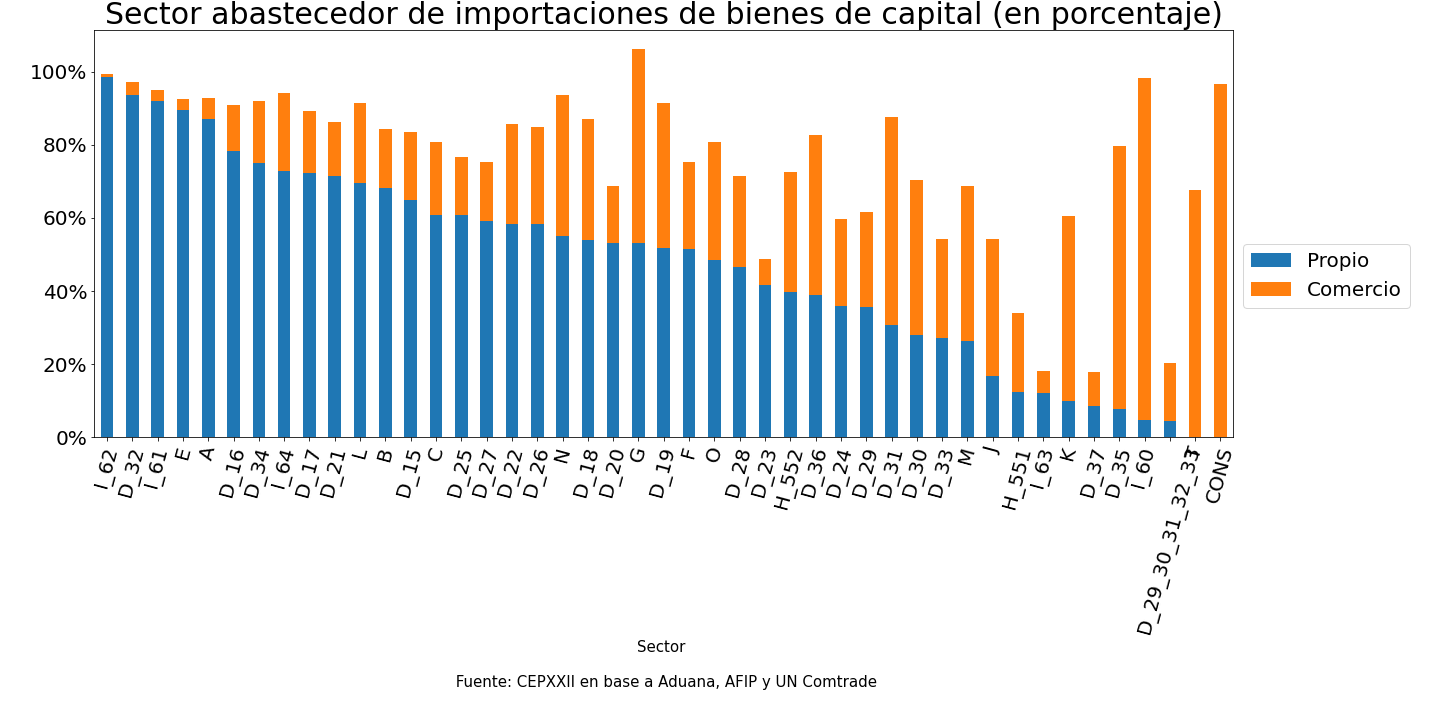
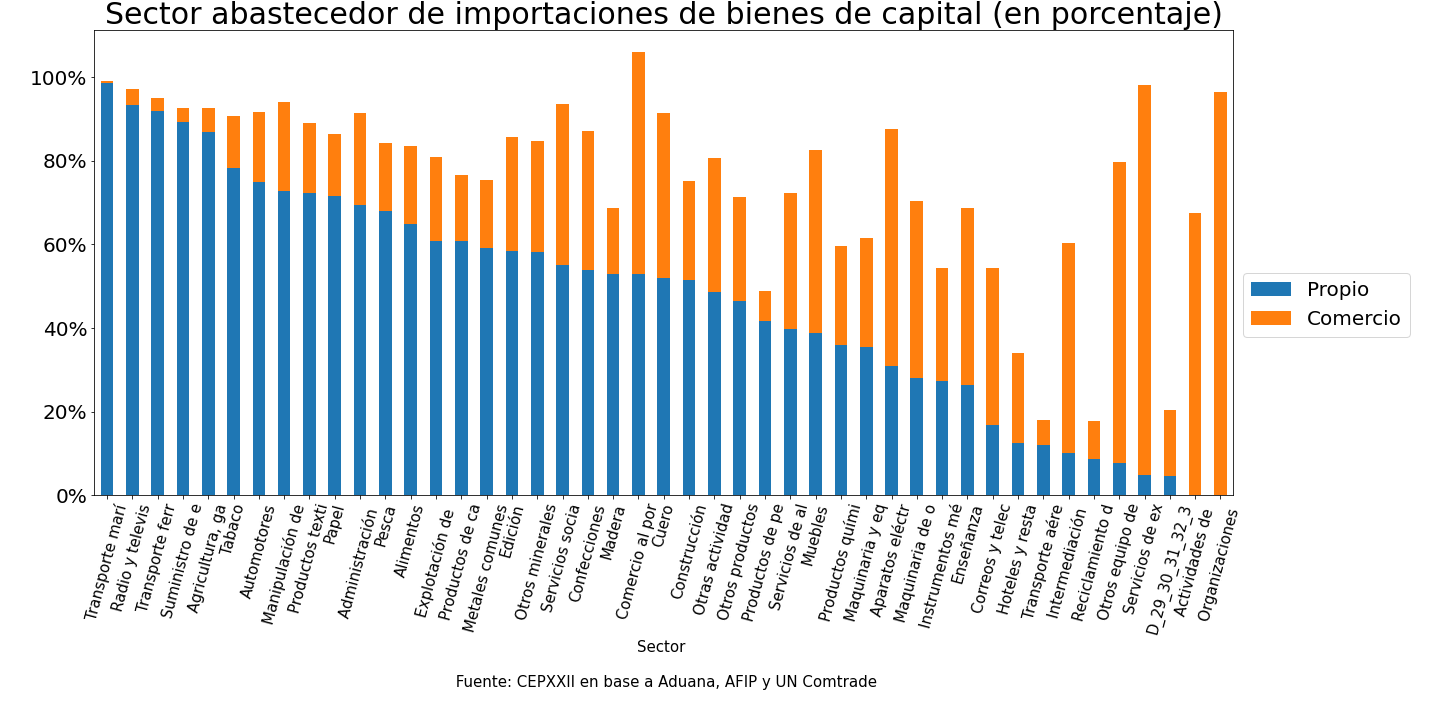
incompatibilidad de numero de ejes de diccionario y plot

diff --git a/scripts/nivel_ncm_12d_6act/pre_visualizacion_nivel_ncm_12d_6act.py b/scripts/nivel_ncm_12d_6act/pre_visualizacion_nivel_ncm_12d_6act.py
@@ -19,11 +19,41 @@ def sectores():
                      "U": "Serv. organizaciones" , "CONS": "Consumo" }
     return sectores_desc
 
+def dic_graf(matriz_sisd, dic_ciiu):
+    letras_ciiu = pd.DataFrame(matriz_sisd.index)
+    # armo nuevo diccionario
+    letras_ciiu_pd =  dic_ciiu[["ciiu3_letra", "ciiu3_letra_desc"]].drop_duplicates(subset = "ciiu3_letra")[~dic_ciiu["ciiu3_letra"].isin(["D", "I"]) ].dropna().rename(columns = {"ciiu3_letra" : "letra", "ciiu3_letra_desc":"desc" } )
+    
+    digitos = tuple(list(map(str, range(15, 38))) + list(map(str, range(60, 65))) )
+    ciiu_desc_2= dic_ciiu[dic_ciiu["ciiu3_2c"].astype(str).str.startswith(digitos )][[ "ciiu3_letra", "ciiu3_2c", "ciiu3_2c_desc" ]].drop_duplicates()
+    ciiu_desc_2["ciiu3_2c"] =  ciiu_desc_2["ciiu3_letra"] + "_"+ ciiu_desc_2["ciiu3_2c"].astype(str).str.slice(0,2) 
+    ciiu_desc_2 = ciiu_desc_2.rename(columns = {"ciiu3_2c" : "letra", "ciiu3_2c_desc":"desc" } )[["letra", "desc"]]
+    
+    ciiu_desc_3= dic_ciiu[dic_ciiu["ciiu3_3c"].astype(str).str.startswith( ("551", "552"), na = False)][[ "ciiu3_letra", "ciiu3_3c", "ciiu3_3c_desc"  ]].drop_duplicates()
+    ciiu_desc_3["ciiu3_3c"] =  ciiu_desc_3["ciiu3_letra"] + "_"+ ciiu_desc_3["ciiu3_3c"].astype(str).str.slice(0,3) 
+    ciiu_desc_3 = ciiu_desc_3.rename(columns = {"ciiu3_3c" : "letra", "ciiu3_3c_desc":"desc" } )[["letra", "desc"]]
+    
+    sector_a_definir = pd.DataFrame({"letra": ["D_29_30_31_32_33"], "desc":[ "D_29_30_31_32_33"]})
+    
+    letras_ciiu = pd.concat([letras_ciiu_pd, ciiu_desc_2, ciiu_desc_3, sector_a_definir ], axis = 0).sort_values("letra")
+    letras_ciiu = pd.concat([letras_ciiu ,pd.DataFrame({"letra": ["CONS"], "desc":[ "Consumo"]})], axis = 0 )
+    
+    return letras_ciiu
 
-def impo_total(z, sectores_desc =False):
-    indice = z.index
+def impo_total(matriz_sisd, letras_ciiu, sectores_desc =False):
+    # if sectores_desc == True:
+    #     indice = z.index
+    #     letra =  indice.values
+    # else:
+    #     indice = letras_ciiu.desc.values
+    #     letra = letras_ciiu.letra.values
+    
+    indice = letras_ciiu.desc.values
+    letra = letras_ciiu.letra.values
+
+    
     # transformacion a array de np
-    z_visual = z.to_numpy()
+    z_visual = matriz_sisd.to_numpy()
     
     #diagonal y totales col y row
     col_sum  = np.nansum(z_visual , axis=0)
@@ -34,14 +64,16 @@ def impo_total(z, sectores_desc =False):
 
     #importaciones totales (ordenadas)
     # impo_tot_sec = pd.DataFrame({"impo_tot": col_sum, "letra":sectores_desc.keys() }, index=sectores_desc.values())  
-    impo_tot_sec = pd.DataFrame({"impo_tot": col_sum, "letra":indice.values}, index=indice)  
+    impo_tot_sec = pd.DataFrame({"impo_tot": col_sum, "letra":letra}, index=indice)  
     # impo_tot_sec = pd.DataFrame({"impo_tot": col_sum } )  
     # impo_tot_sec.sort_values(by = "impo_tot", ascending= False, inplace = True)
     
     return impo_tot_sec
 
-def impo_comercio_y_propio(z, sectores_desc = False):
-    indice = z.index
+def impo_comercio_y_propio(z,letras_ciiu, sectores_desc = False):
+    # indice = z.index
+    indice = letras_ciiu.desc.values
+    # letra = letras_ciiu.letra.values
     
     # transformacion a array de np
     z_visual = z.to_numpy()
@@ -56,13 +88,13 @@ def impo_comercio_y_propio(z, sectores_desc = False):
     comercio_y_propio = pd.DataFrame({"Propio": diag_total_col*100 , 'Comercio': g_total_col*100} , index = indice )
     return comercio_y_propio.sort_values(by = 'Propio', ascending = False) 
     
-def graficos(matriz_sisd, impo_tot_sec, comercio_y_propio):
+def graficos(matriz_sisd, impo_tot_sec, comercio_y_propio, letras_ciiu):
     #parametro para graficos
     params = {'legend.fontsize': 20,
               'figure.figsize': (20, 10),
              'axes.labelsize': 15,
              'axes.titlesize': 30,
-              'xtick.labelsize':20,
+              'xtick.labelsize':15,
               'ytick.labelsize':20
              }
     plt.rcParams.update(params)
@@ -70,11 +102,12 @@ def graficos(matriz_sisd, impo_tot_sec, comercio_y_propio):
     
     ##### grafico 1
     #posiciones para graf
+    y_pos = np.arange(len(letras_ciiu["desc"])) 
     # y_pos = np.arange(len(sectores_desc.values())) 
-    y_pos = np.arange(len(matriz_sisd.index.values)) 
+    # y_pos = np.arange(len(matriz_sisd.index.values)) 
     
     plt.bar(y_pos , impo_tot_sec.iloc[:,0]/(10**6) )
-    plt.xticks(y_pos , impo_tot_sec.index, rotation = 45)
+    plt.xticks(y_pos , impo_tot_sec.index, rotation = 75)
     plt.title("Importaciones de bienes de capital destinadas a cada sector")#, fontsize = 30)
     plt.ylabel("Millones de USD")
     plt.xlabel("Sector \n \n Fuente: CEPXXI en base a Aduana, AFIP y UN Comtrade")

diff --git a/scripts/nivel_ncm_12d_6act/clasificador_nivel_ncm_12d_6act.py b/scripts/nivel_ncm_12d_6act/clasificador_nivel_ncm_12d_6act.py
@@ -158,26 +158,15 @@ matriz_hssd  = pd.pivot_table(asign_pre_matriz, values='valor_pond', index=['hs6
 # =============================================================================
 #preprocesamiento
 sectores_desc = sectores() #Sectores CLAE
-letras_ciiu = pd.DataFrame(matriz_sisd.index)
-impo_tot_sec = impo_total(z = matriz_sisd, sectores_desc= False) 
-comercio_y_propio = impo_comercio_y_propio(matriz_sisd, sectores_desc = False) 
+letras_ciiu = dic_graf(matriz_sisd, dic_ciiu)
+letras_ciiu["desc"] = letras_ciiu["desc"].str.slice(0,15)
+impo_tot_sec = impo_total(matriz_sisd, sectores_desc= False, letras_ciiu = letras_ciiu) 
+comercio_y_propio = impo_comercio_y_propio(matriz_sisd,letras_ciiu, sectores_desc = False) 
 
-# armo nuevo diccionario
-letras_ciiu_pd =  dic_ciiu[["ciiu3_letra", "ciiu3_letra_desc"]].drop_duplicates(subset = "ciiu3_letra")[~dic_ciiu["ciiu3_letra"].isin(["D", "I", "K"]) ].dropna()#.rename(columns = {"ciiu3_letra" : "letra", "ciiu3_letra_desc":"desc" } )
-
-digitos = tuple(list(map(str, range(15, 38))) + list(map(str, range(60, 65))) )
-ciiu_desc_2= dic_ciiu[dic_ciiu["ciiu3_2c"].astype(str).str.startswith(digitos )][[ "ciiu3_letra", "ciiu3_2c", "ciiu3_2c_desc" ]].drop_duplicates()
-ciiu_desc_2["ciiu3_2c"] =  ciiu_desc_2["ciiu3_letra"] + "_"+ ciiu_desc_2["ciiu3_2c"].astype(str).str.slice(0,2) 
-ciiu_desc_2 = ciiu_desc_2.rename(columns = {"ciiu3_2c" : "letra", "ciiu3_2c_desc":"desc" } )[["letra", "desc"]]
-
-ciiu_desc_3= dic_ciiu[dic_ciiu["ciiu3_3c"].astype(str).str.startswith( ("551", "552"), na = False)][[ "ciiu3_letra", "ciiu3_3c", "ciiu3_3c_desc"  ]].drop_duplicates()
-ciiu_desc_3["ciiu3_3c"] =  ciiu_desc_3["ciiu3_letra"] + "_"+ ciiu_desc_3["ciiu3_3c"].astype(str).str.slice(0,3) 
-ciiu_desc_3 = ciiu_desc_3.rename(columns = {"ciiu3_3c" : "letra", "ciiu3_3c_desc":"desc" } )[["letra", "desc"]]
-
-letras_ciiu = pd.concat([letras_ciiu_pd, ciiu_desc_2, ciiu_desc_3], axis = 1)
+x = pd.merge(impo_tot_sec.reset_index(),letras_ciiu, how = "outer", left_on= "letra",  right_on="letra")
 
 # graficos
-graficos(matriz_sisd, impo_tot_sec, comercio_y_propio)
+graficos(matriz_sisd, impo_tot_sec, comercio_y_propio, letras_ciiu)
 
 ##### tabla top 5
 # Top 5 de importaciones de cada sector
